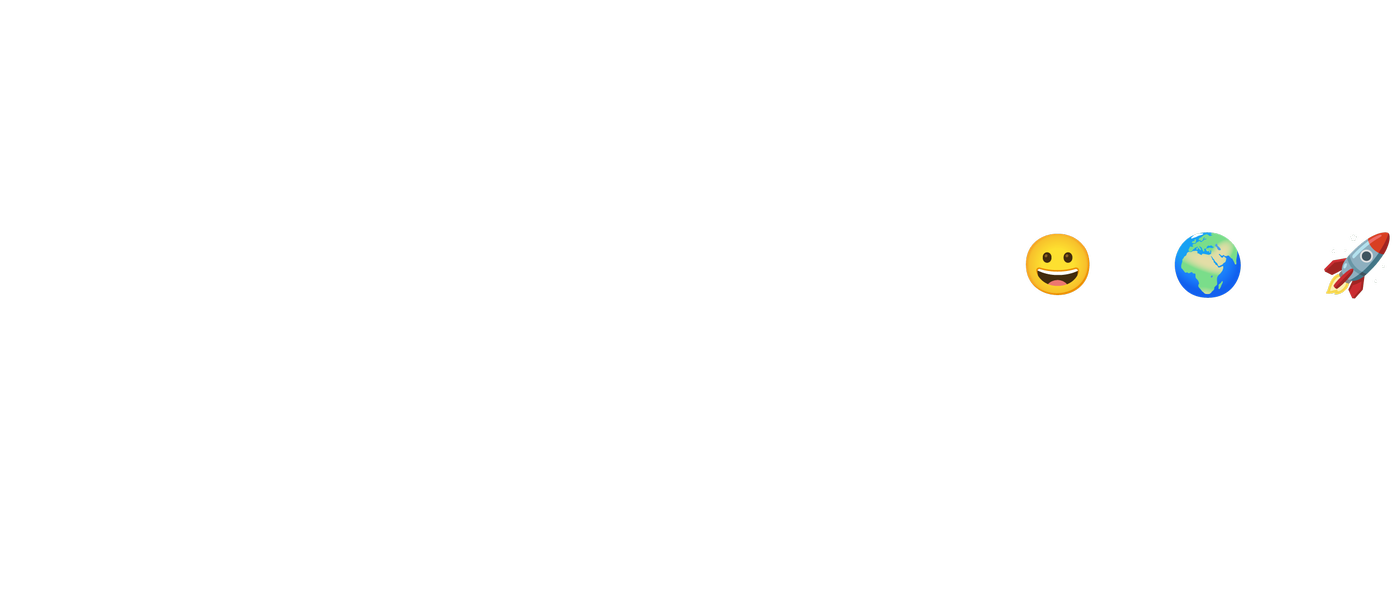
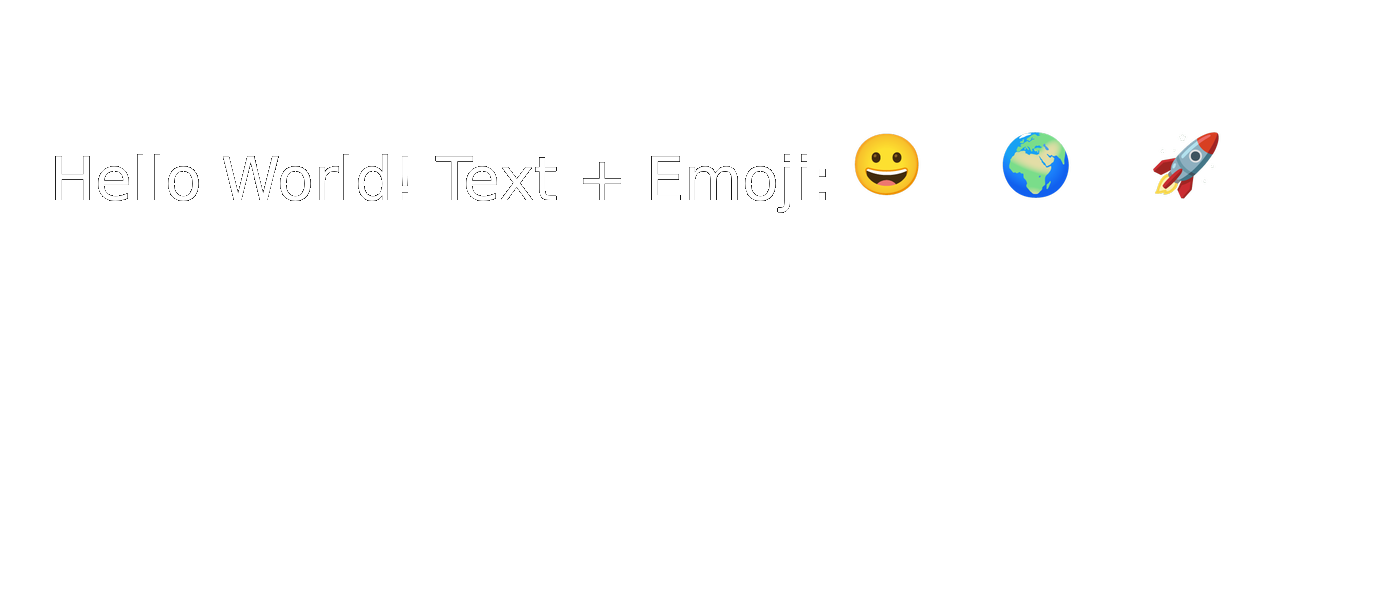
docs: improve emoji example to use separate fonts for text vs emoji

diff --git a/examples/src/text/emoji.rs b/examples/src/text/emoji.rs
@@ -6,74 +6,108 @@ fn main() -> Result<(), Box<dyn std::error::Error>> {
     // Find an emoji font
     let font_path = find_emoji_font();
     
-    let font = if let Some(path) = font_path {
-        println!("Loading emoji font: {}", path);
-        Font::from_file(path)?
-    } else {
-        println!("⚠ No dedicated emoji font found. Using default.");
-        Font::from_file("/usr/share/fonts/truetype/dejavu/DejaVuSans.ttf")?
-    };
-
     // Create surface
     let mut surface = CpuSurface::new(1400, 600);
     surface.canvas().clear(Color::rgb(255, 255, 255));
     
-    let mut paint = Paint::with_color(Color::BLACK);
+    // 1. Load Text Font (DejaVu Sans or FreeSans)
+    let text_font_name = "DejaVuSans.ttf";
+    let text_font_path = find_font(text_font_name).or_else(|| find_font("FreeSans.ttf"));
     
-    // Draw some text with emojis
-    surface.canvas().draw_text(
-        "Hello World! 😀 🌍 🚀",
-        Point::new(50.0, 300.0),
-        &font,
-        60.0,
-        &paint,
-    );
+    // 2. Load Emoji Font
+    let emoji_font_path = find_emoji_font();
 
-    // Ensure output directory exists
-    std::fs::create_dir_all("examples/output/text")?;
-    surface.save_png("examples/output/text/emoji_test.png")?;
-    println!("✅ Saved to examples/output/text/emoji_test.png");
-    
+    if let (Some(text_path), Some(emoji_path)) = (text_font_path, emoji_font_path) {
+        println!("Loaded Text Font: {}", text_path);
+        println!("Loaded Emoji Font: {}", emoji_path);
+
+        let text_font = Font::from_file(&text_path).expect("Failed to load text font");
+        let emoji_font = Font::from_file(&emoji_path).expect("Failed to load emoji font");
+
+        // 3. Draw Standard Text
+        let mut paint = Paint::with_color(Color::rgb(20, 20, 20)); // Dark Gray
+        surface.canvas().draw_text(
+            "Hello World! Text + Emoji:",
+            Point::new(50.0, 200.0),
+            &text_font,
+            60.0,
+            &paint,
+        );
+
+        // 4. Draw Emojis (using Emoji Font)
+        // Positioned after the text (approx width)
+        let emoji_text = "😀 🌍 🚀";
+        surface.canvas().draw_text(
+            emoji_text,
+            Point::new(850.0, 200.0), // Hardcoded relative position for simplicity
+            &emoji_font,
+            60.0,
+            &paint, // Color is ignored for RGBA bitmaps, but logic uses alpha
+        );
+        
+        // Ensure output directory exists
+        std::fs::create_dir_all("examples/output/text")?;
+        surface.save_png("examples/output/text/emoji_test.png")?;
+        println!("✅ Saved to examples/output/text/emoji_test.png");
+    } else {
+        println!("❌ Could not find required fonts.");
+        println!("Text font found: {:?}", find_font("DejaVuSans.ttf").is_some());
+        println!("Emoji font found: {:?}", find_emoji_font().is_some());
+    }
+
     Ok(())
 }
 
-fn find_emoji_font() -> Option<String> {
-    // List of common emoji fonts and their typical paths across OSs
-    let candidates = [
-        // Linux / Android
-        "/usr/share/fonts/truetype/noto/NotoColorEmoji.ttf",
-        "/usr/share/fonts/opentype/noto/NotoColorEmoji.ttf",
-        "/usr/share/fonts/google-noto-emoji/NotoColorEmoji.ttf",
-        // macOS
-        "/System/Library/Fonts/Apple Color Emoji.ttc",
-        "/System/Library/Fonts/sbix/Apple Color Emoji.ttc",
-        // Windows (typical mount or WSL path)
-        "/mnt/c/Windows/Fonts/seguiemj.ttf",
-        "C:\\Windows\\Fonts\\seguiemj.ttf",
-        // Fallbacks
-        "/usr/share/fonts/truetype/android/AndroidEmoji.ttf",
+fn find_font(name: &str) -> Option<String> {
+    // Try common locations
+    let paths = [
+        format!("/usr/share/fonts/truetype/dejavu/{}", name),
+        format!("/usr/share/fonts/truetype/freefont/{}", name),
+        format!("/System/Library/Fonts/{}", name),
     ];
-
-    for path_str in candidates {
-        let path = std::path::Path::new(path_str);
-        if path.exists() {
-            return Some(path.to_string_lossy().to_string());
+    
+    for p in paths {
+        if std::path::Path::new(&p).exists() {
+            return Some(p);
         }
     }
     
-    // Generic search for "emoji" in standard directories using `find`
-    // This catches variations like "TwitterColorEmoji" or custom installed ones
+    // Fallback to `find`
     if cfg!(target_os = "linux") {
         let output = std::process::Command::new("find")
-            .args(["/usr/share/fonts", "/home/grandpa/.local/share/fonts", "-name", "*Emoji*.ttf"])
+            .args(["/usr/share/fonts", "-name", name])
             .output()
             .ok()?;
-            
         let stdout = String::from_utf8_lossy(&output.stdout);
-        if let Some(line) = stdout.lines().next() {
-            return Some(line.to_string());
+        stdout.lines().next().map(|s| s.to_string())
+    } else {
+        None
+    }
+}
+
+fn find_emoji_font() -> Option<String> {
+    if cfg!(target_os = "macos") {
+         if std::path::Path::new("/System/Library/Fonts/Apple Color Emoji.ttc").exists() {
+             return Some("/System/Library/Fonts/Apple Color Emoji.ttc".to_string());
+         }
+    }
+    
+    // Linux/Other
+    if let Some(path) = find_font("NotoColorEmoji.ttf") {
+        return Some(path);
+    }
+    
+    // Fallbacks
+    let candidates = [
+        "/usr/share/fonts/truetype/noto/NotoColorEmoji.ttf",
+        "/usr/share/fonts/google-noto-emoji/NotoColorEmoji.ttf",
+        "/usr/share/fonts/truetype/android/AndroidEmoji.ttf",
+    ];
+    
+    for p in candidates {
+        if std::path::Path::new(p).exists() {
+            return Some(p.to_string());
         }
     }
-
     None
 }
